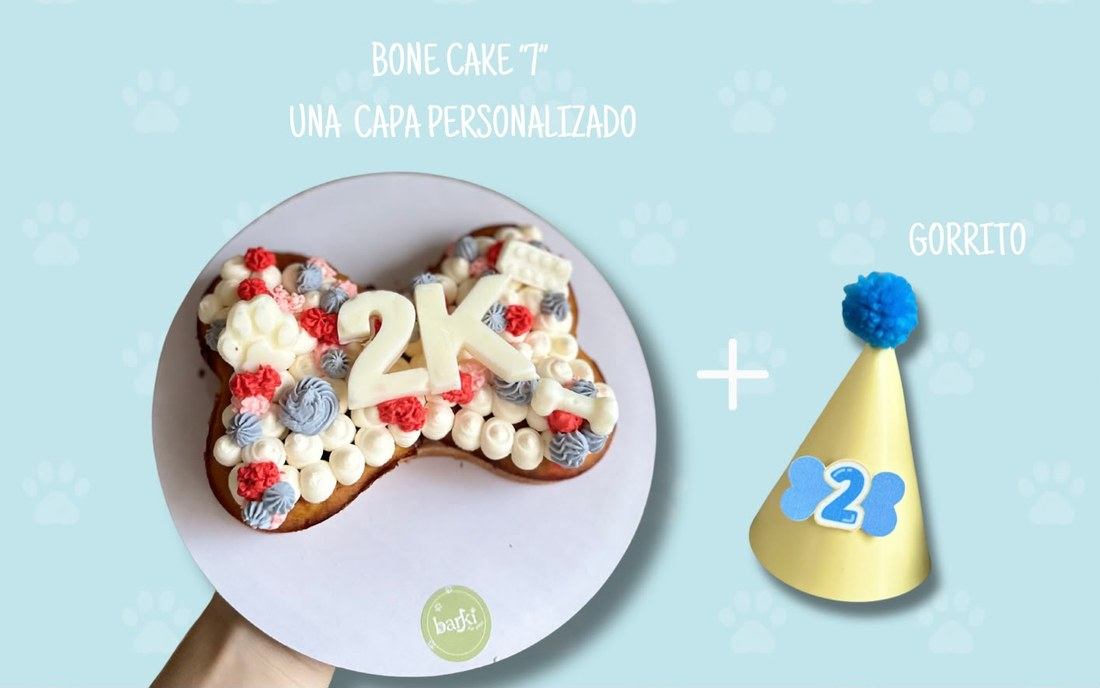
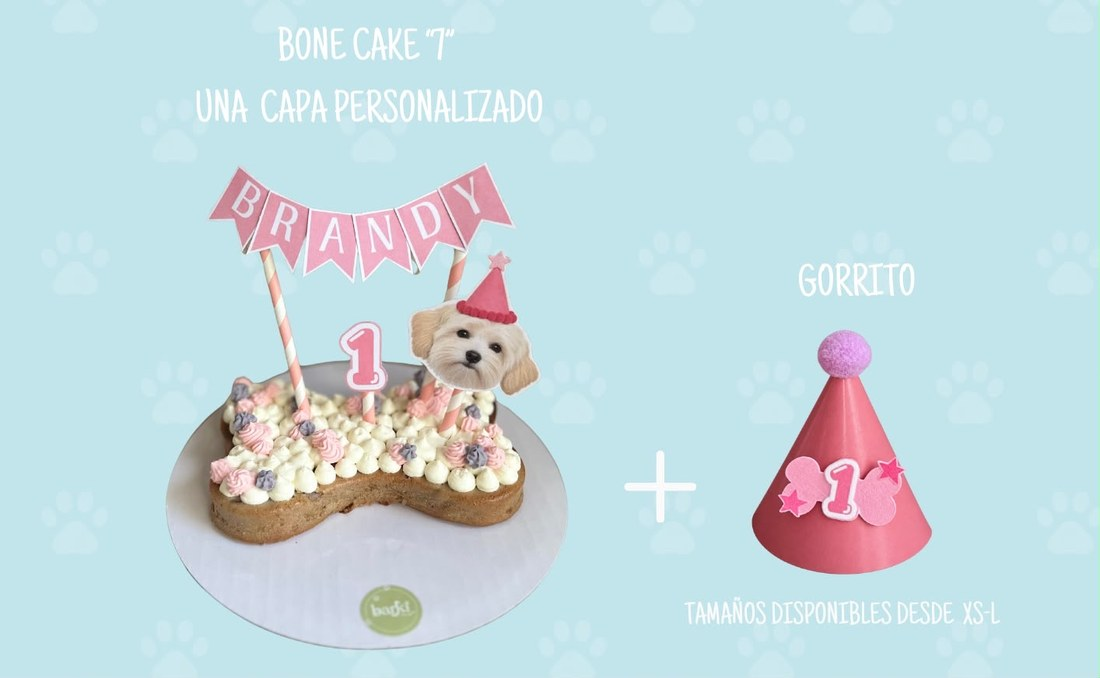
Simplify Bone Cake / Promo Octubre personalización, update photos and pricing
- Bone Cake (1 capa) and Promo Octubre: replace the 3-option
  personalización (with note field) with a simple Con toppers /
  Sin toppers choice
- Update both photos to the BRANDY bone cake set
- Bone Cake (1 capa) and Promo Octubre: price $20 -> $25

Claude-Session: https://claude.ai/code/session_01XqmfRNJsafXUHQMjhSssjc

diff --git a/src/data/catalog.ts b/src/data/catalog.ts
@@ -229,18 +229,13 @@ export const CATALOG: Product[] = [
     category: "cakes",
     name: "Bone Cake",
     tagline: "1 capa",
-    price: 20,
+    price: 25,
     images: [imgBoneCake1Capa],
     bullets: ["Decorado especialmente para celebrar a tu perrito"],
     hasFlavor: true,
     hasColor: true,
     maxColors: 3,
-    choice: {
-      label: "Personalización",
-      options: ["Letras de yogur griego", "Topper personalizado", "Galleta personalizada"],
-      noteOn: ["Letras de yogur griego", "Galleta personalizada"],
-    },
-    hasNote: true,
+    choice: { label: "Personalización", options: ["Con toppers", "Sin toppers"] },
     note: "La base del cake siempre será blanca. Los colores elegidos se usan solo en los detalles y decoración del diseño.",
   },
   {
@@ -383,7 +378,7 @@ export const PROMO: Product = {
   category: "promo",
   name: "Promo Octubre",
   tagline: "Promo del mes",
-  price: 20,
+  price: 25,
   images: [imgPromoOctubre],
   bullets: [
     'Barki Bone Cake de 7" de una capa personalizado',
@@ -393,12 +388,7 @@ export const PROMO: Product = {
   hasFlavor: true,
   hasColor: true,
   maxColors: 3,
-  choice: {
-    label: "Personalización",
-    options: ["Letras de yogur griego", "Topper personalizado", "Galleta personalizada"],
-    noteOn: ["Letras de yogur griego", "Galleta personalizada"],
-  },
-  hasNote: true,
+  choice: { label: "Personalización", options: ["Con toppers", "Sin toppers"] },
   choice2: { label: "Talla de gorrito", options: ["XS", "S", "L"] },
   note: "La base del cake siempre será blanca. Los colores elegidos se usan solo en los detalles y decoración del diseño.",
 };
